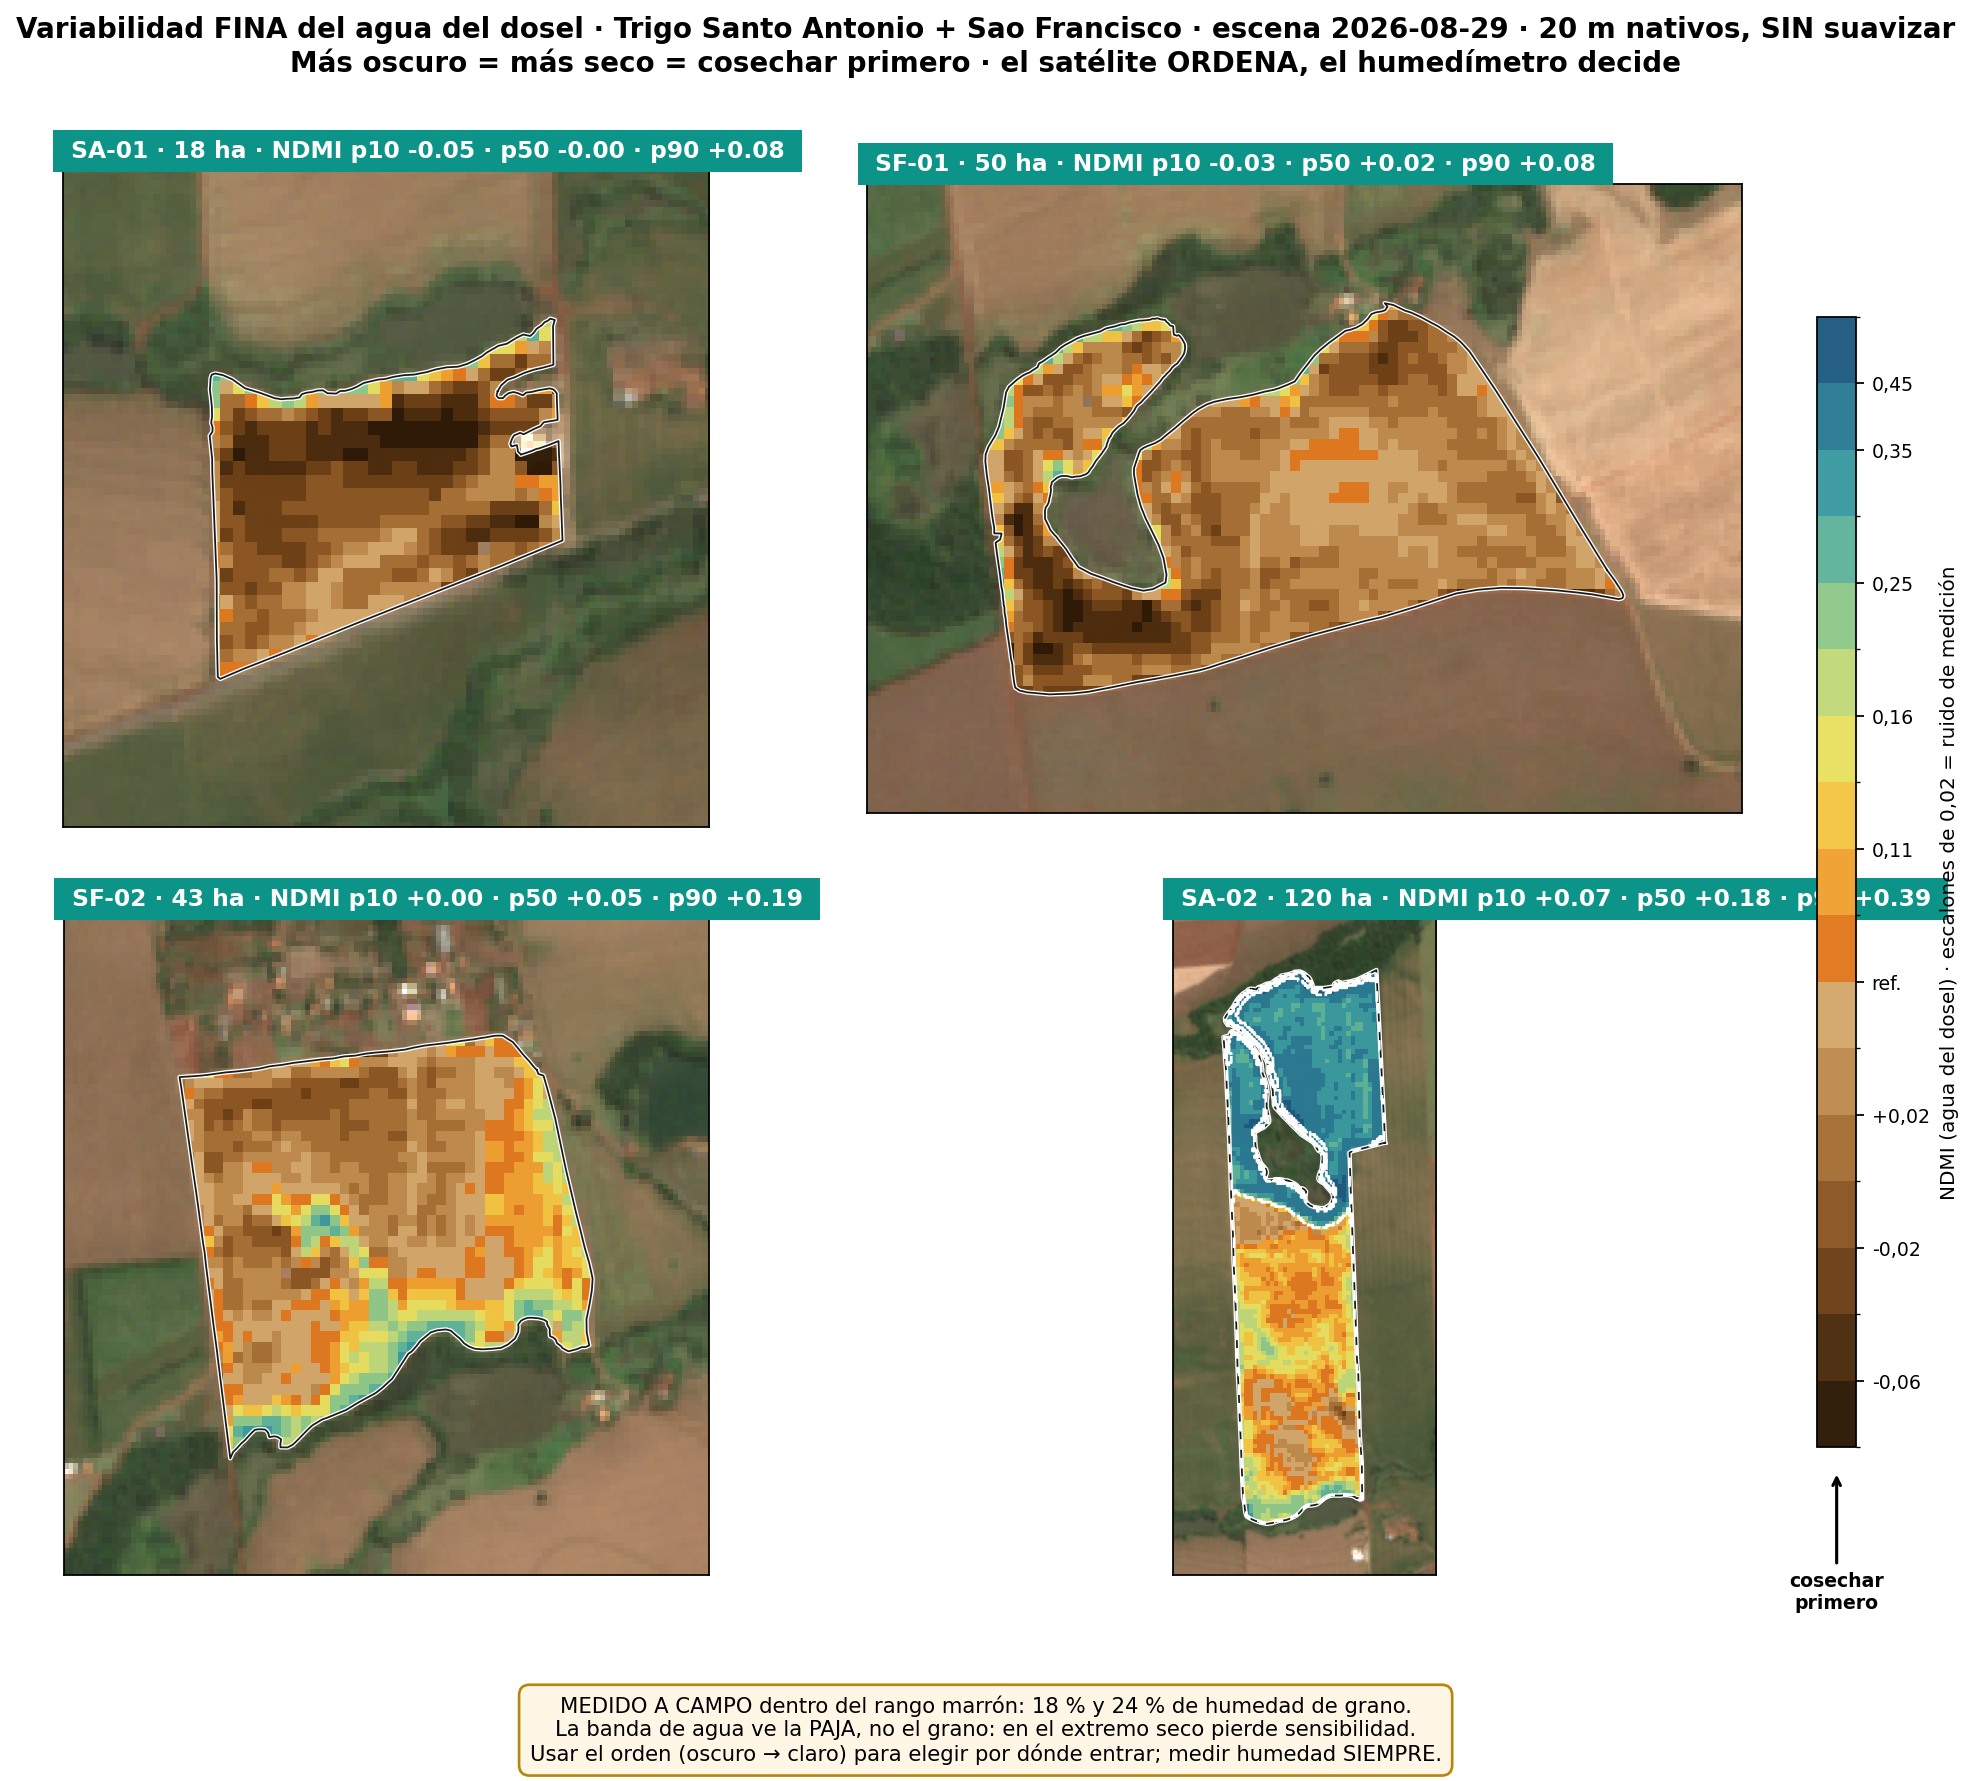
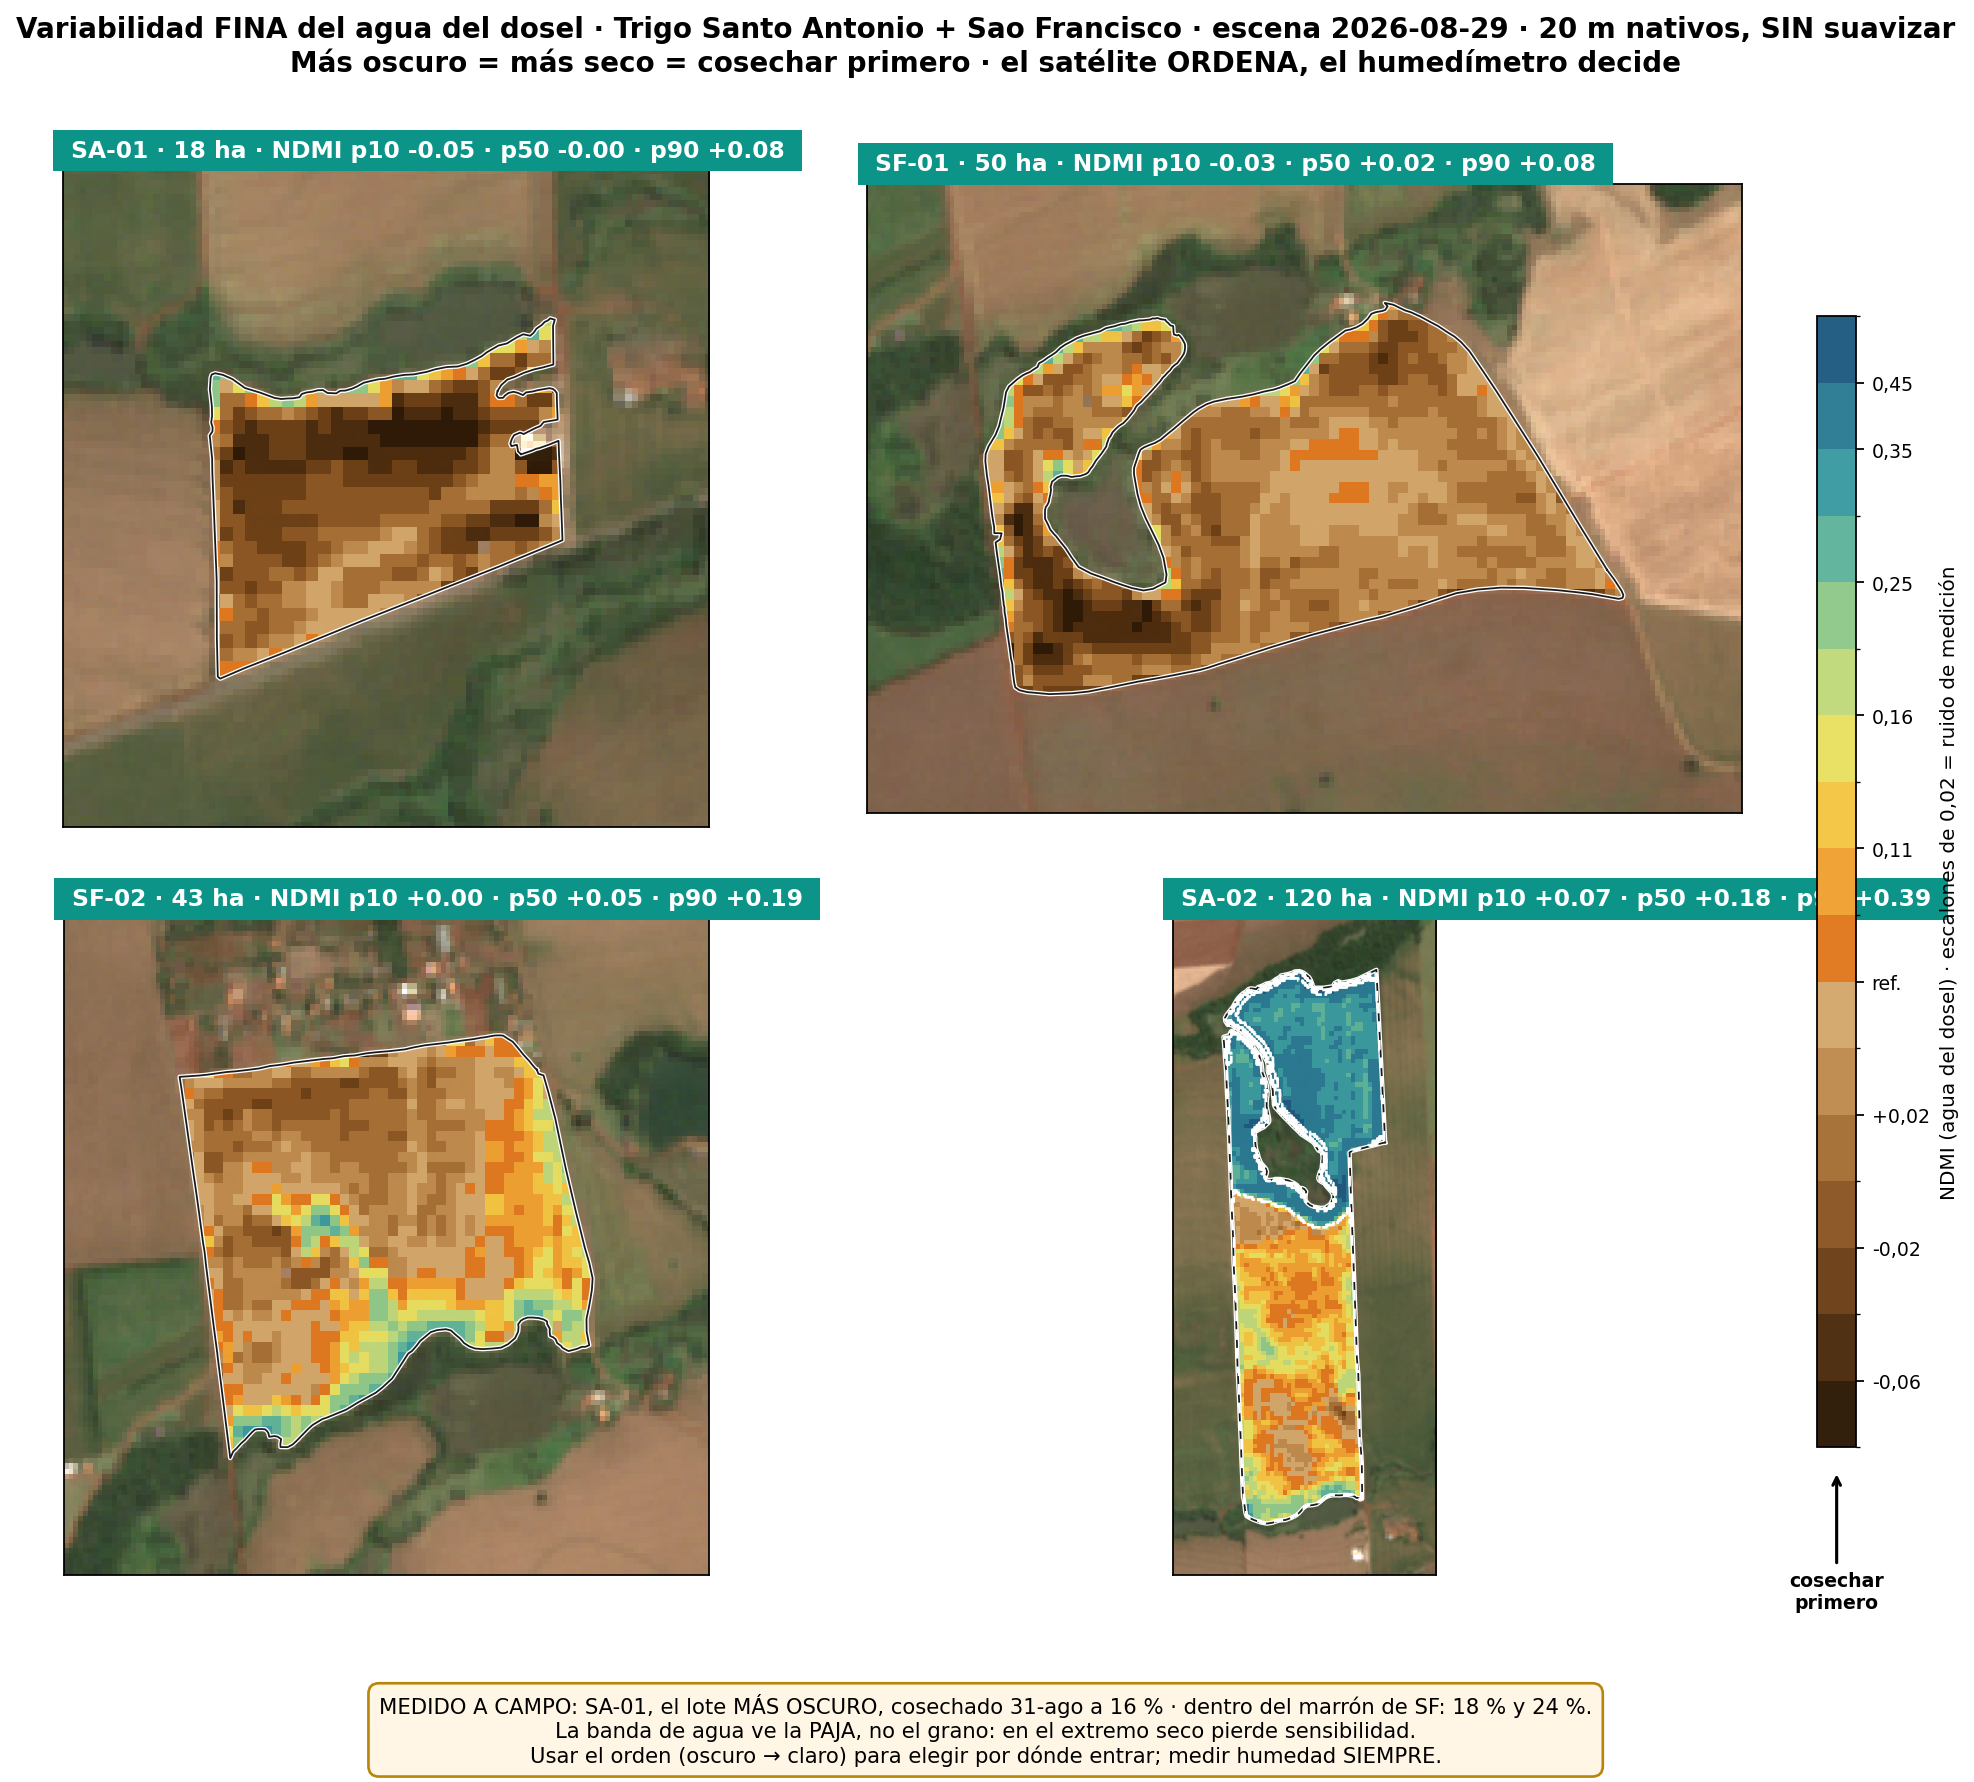
medicion(ancla-5): SA-01, el lote mas oscuro del mapa fino, se cosecho a 16%
El lote del asfalto (SA-01, NDMI p50 -0,01, el mas oscuro de la flota el
29-ago) se cosecho el 31-ago con 16% de humedad promedio: confirma el ORDEN
del mapa fino (mas oscuro = menos humedad; marrones claros de SF 0,00-0,04
dieron 18-24%; verde 0,16 dio 23%). Registrado en la caja del mapa fino
(es/pt), pies de figura del relatorio tecnico, resumo del productor (SA-01
'Colhido em 31/ago - deu 16%') y ancla_cosecha.txt. Cinco anclas: 16/18/20/
23/24%, PH 78. PDFs regenerados: tecnico 7 pag es/pt + resumo 2 pag.

diff --git a/PIX_ALERTA/entregables/resumo_simples.py b/PIX_ALERTA/entregables/resumo_simples.py
@@ -24,9 +24,9 @@ st += [B.P("Este é o resumo simples do relatório técnico. Aqui está só o qu
 
 st += [B.sec(1, "O que está pronto AGORA")]
 tab = [["Talhão", "Situação", "O que fazer"],
-       ["SA-01 (18 ha)", "Seco como a referência", "Medir umidade e colher"],
+       ["SA-01 (18 ha)", "Colhido em 31/ago — deu 16 %", "Feito"],
        ["SF-01 (50 ha)", "Seco como a referência", "Medir umidade e colher"],
-       ["SF-02 parte de cima (~25 ha)", "Seco como a referência", "Medir umidade e colher"],
+       ["SF-02 parte de cima (~25 ha)", "Seco como a referência", "Medir umidade ponto a ponto"],
        ["SF-02 parte de baixo (~15 ha)", "Ainda úmido (deu 23 %)", "Esperar 3 a 6 dias"],
        ["SA-02 Setor A (70 ha)", "Secando rápido", "Medir umidade até 04/set"],
        ["SA-02 Setor B (49 ha)", "Ainda verde", "Esperar 1-2 semanas"]]
@@ -35,11 +35,12 @@ st += [B.P("No total: uns 98 ha prontos para conferir e colher agora, e mais ~40
            "entrando nesta semana.", "Body")]
 
 st += [B.sec(2, "O que já foi conferido no campo")]
-st += [B.P("A parte seca colhida em São Francisco deu 18 % de umidade — exatamente o "
-           "ponto de começar a trilha — e PH 78 (qualidade boa). A parte mais verde deu "
-           "23 % — ainda cedo. Ou seja: onde o mapa mostrou marrom, o grão estava no "
-           "ponto; onde mostrou verde, ainda não. O satélite e o medidor de umidade "
-           "contaram a mesma história.", "Body")]
+st += [B.P("SA-01, o talhão mais escuro do mapa (o do asfalto), foi colhido em 31/ago com "
+           "16 % de umidade — o mais seco de todos, como o mapa dizia. Em São Francisco, a "
+           "parte seca deu 18 % e PH 78 (qualidade boa), mas outros pontos marrons deram até "
+           "24 %, e a parte verde 23 %. Lição: a ORDEM do mapa está certa (mais escuro = "
+           "mais seco), mas dentro do marrom o grão ainda varia — o satélite vê a palha, "
+           "não o grão. Por isso: medir umidade ponto a ponto antes de entrar.", "Body")]
 
 st += [B.sec(3, "As 3 regras simples")]
 st += [B.P("1. O satélite diz POR ONDE começar. O medidor de umidade diz QUANDO colher. "
@@ -49,17 +50,20 @@ st += [B.P("2. Chuva molha a palha e atrasa tudo alguns dias. Depois de chuva, e
 st += [B.P("3. A cada 3-5 dias sai um mapa novo. As datas podem se ajustar um pouco — "
            "é normal, o trigo seca conforme o tempo que faz.", "Body")]
 
-st += [B.callout("Esta semana", "Começar pela parte marrom do mapa (SA-01, SF-01 e a parte "
-                 "de cima do SF-02). Medir umidade no Setor A de Santo Antônio até 04/set. "
+st += [B.callout("Esta semana", "SA-01 já foi. Seguir pelos pontos mais ESCUROS de SF-01 e da "
+                 "parte de cima do SF-02, medindo umidade em cada frente. Medir o Setor A de "
+                 "Santo Antônio até 04/set. "
                  "Deixar o Setor B quieto por enquanto. Dúvidas: nilton.camargo@pixadvisor.network "
                  "· +591 721 49171.")]
-st += [B.sec(4, "O mapa: cada cor é uma decisão")]
+st += [B.sec(4, "O mapa: mais escuro = mais seco = entrar primeiro")]
 st += [KeepTogether([
-    B.P("Marrom = pronto para medir e colher · Laranja = questão de dias · Amarelo = "
-        "perto, ainda úmido · Verde = falta 1-2 semanas · Azul = longe ainda. A barra "
-        "embaixo de cada talhão mostra quantos hectares tem de cada cor.", "Body"),
-    Image(os.path.join(RAIZ, "medicion", "zonas_proximidad_SA_SF_pt.png"),
-          width=15 * cm, height=15 * cm * 1710 / 2081)])]
+    B.P("Cada quadradinho é um pedaço de 20 m do talhão, sem disfarce. Marrom escuro = a palha "
+        "mais seca — por ali entrar primeiro. Marrom claro e laranja = ainda não. Verde e azul = "
+        "esperar. ATENÇÃO: dentro do marrom o grão ainda variou de 18 % a 24 % — o satélite vê a "
+        "palha, não o grão. Medir umidade em cada ponto antes de colher: cada ponto a mais é "
+        "desconto na cooperativa.", "Body"),
+    Image(os.path.join(RAIZ, "medicion", "variabilidad_fina_SA_SF_pt.png"),
+          width=15 * cm, height=15 * cm * 1781 / 2039)])]
 
 out = os.path.join(RAIZ, "salida", "Resumo_Simples_Produtor_SA_SF_29ago.pdf")
 B.build(out, st, cover_title="Trigo — o que colher e quando",

diff --git a/PIX_ALERTA/entregables/orden_cosecha.py b/PIX_ALERTA/entregables/orden_cosecha.py
@@ -372,6 +372,7 @@ TXT = {
                   "lote, los sectores marrones se secan primero: por ahí empezar el muestreo de "
                   "humedad de grano.",
     mapa_zonas_cap="Proximidad en 5 zonas con hectareas por clase: el nivel trillable es el p90 de la referencia seca de esta corrida (medido a campo 29-ago: ~18 % de humedad al alcanzarlo = inicio de ventana de trilla, PH 78; la zona cerca midio 23 %). Los dias asumen la tasa de secado medida y sin lluvia. La barra de cada lote dice cuantas hectareas entran esta semana y cuantas despues.",
+    mapa_fino_cap="Variabilidad FINA del agua del dosel a 20 m nativos, sin suavizar: escalones de 0,02 (= ruido de medicion), 7 tonos dentro del rango seco. Mas oscuro = mas seco = entrar primero. Medido a campo: SA-01, el lote mas oscuro, cosechado 31-ago a 16 % de humedad; dentro del marron de SF: 18 % y 24 % — la banda de agua ve la paja,no el grano, y en el extremo seco pierde sensibilidad. El mapa ORDENA; el humedimetro certifica.",
     sec4="Método y alcance",
     metodo="Madurez por caída del CIre respecto del pico propio (pico solo con escenas S2A/B; "
            "S2C corregido por nivel). Compuerta de bruma por lote y fecha. Producto RELATIVO: "
@@ -472,6 +473,7 @@ TXT = {
                   "de cada talhão, os setores marrons secam primeiro: por aí começar a amostragem "
                   "de umidade do grão.",
     mapa_zonas_cap="Proximidade em 5 zonas com hectares por classe: o nivel trilhavel e o p90 da referencia seca desta rodada (medido no campo 29-ago: ~18 % de umidade ao atingi-lo = inicio da janela de trilha, PH 78; a zona perto mediu 23 %). Os dias assumem a taxa de secagem medida e sem chuva. A barra de cada talhao diz quantos hectares entram nesta semana e quantos depois.",
+    mapa_fino_cap="Variabilidade FINA da agua do dossel a 20 m nativos, sem suavizar: degraus de 0,02 (= ruido de medicao), 7 tons dentro da faixa seca. Mais escuro = mais seco = entrar primeiro. Medido no campo: SA-01, o talhao mais escuro, colhido 31/ago com 16 % de umidade; dentro do marrom de SF: 18 % e 24 % — a banda de agua ve a palha,nao o grao, e no extremo seco perde sensibilidade. O mapa ORDENA; o medidor de umidade certifica.",
     sec4="Método e alcance",
     metodo="Maturação pela queda do CIre em relação ao pico próprio (pico somente com cenas "
            "S2A/B; S2C corrigido por nível). Comporta de bruma/névoa seca por talhão e data. "
@@ -914,6 +916,16 @@ def render_graficos(res, rasters, idioma):
             for k in ('ndmi', 'rgb'):
                 z_arrays[f'{lid}|{k}'], z_arrays[f'{lid}|{k}_ext'] = d[k]
         _zonas_render(res, z_arrays, pngs['zonas'], idioma)
+        # mapa de VARIABILIDAD FINA (20 m nativos, sin suavizar): solo si la corrida
+        # dejo los rasteres ndmi20m_* en salida (correccion de campo 02-sep: el marron
+        # unico escondia 18-24 % de humedad de grano)
+        try:
+            from zonas_proximidad import render_fino as _fino, cargar_ndmi20 as _c20
+            nd20 = _c20(res, SALIDA)
+            pngs['fino'] = f"{MED}/variabilidad_fina_{hkey}{suf}.png"
+            _fino(res, nd20, z_arrays, pngs['fino'], idioma)
+        except FileNotFoundError:
+            print('sin rasteres ndmi20m_* en salida: mapa fino omitido')
     return pngs
 
 
@@ -1092,6 +1104,9 @@ def render_pdf(res, idioma, pngs=None):
     if pngs.get('zonas'):
         st += [KeepTogether([_img_ajustada(pngs['zonas'], max_h=17.5 * cm),
                              figcap(T['mapa_zonas_cap'])])]
+    if pngs.get('fino'):
+        st += [KeepTogether([_img_ajustada(pngs['fino'], max_h=17.5 * cm),
+                             figcap(T['mapa_fino_cap'])])]
 
     # ---- seccion final: metodo + proximo paso (fluye: sin pagina semivacia) ----
     st += [KeepTogether([B.sec(sec_m + 1, T['sec4']),

diff --git a/PIX_ALERTA/entregables/zonas_proximidad.py b/PIX_ALERTA/entregables/zonas_proximidad.py
@@ -173,7 +173,7 @@ TXT_F = {
            'Más oscuro = más seco = cosechar primero · el satélite ORDENA, el humedímetro decide',
     chip=' %s · %.0f ha · NDMI p10 %+.2f · p50 %+.2f · p90 %+.2f ',
     cbar='NDMI (agua del dosel) · escalones de 0,02 = ruido de medición',
-    caja=('MEDIDO A CAMPO dentro del rango marrón: 18 % y 24 % de humedad de grano.\n'
+    caja=('MEDIDO A CAMPO: SA-01, el lote MÁS OSCURO, cosechado 31-ago a 16 % · dentro del marrón de SF: 18 % y 24 %.\n'
           'La banda de agua ve la PAJA, no el grano: en el extremo seco pierde sensibilidad.\n'
           'Usar el orden (oscuro → claro) para elegir por dónde entrar; medir humedad SIEMPRE.'),
     flecha='cosechar\nprimero'),
@@ -182,7 +182,7 @@ TXT_F = {
            'Mais escuro = mais seco = colher primeiro · o satélite ORDENA, o medidor de umidade decide',
     chip=' %s · %.0f ha · NDMI p10 %+.2f · p50 %+.2f · p90 %+.2f ',
     cbar='NDMI (água do dossel) · degraus de 0,02 = ruído de medição',
-    caja=('MEDIDO NO CAMPO dentro da faixa marrom: 18 % e 24 % de umidade do grão.\n'
+    caja=('MEDIDO NO CAMPO: SA-01, o talhão MAIS ESCURO, colhido 31/ago com 16 % · dentro do marrom de SF: 18 % e 24 %.\n'
           'A banda de água vê a PALHA, não o grão: no extremo seco perde sensibilidade.\n'
           'Usar a ordem (escuro → claro) para escolher por onde entrar; medir umidade SEMPRE.'),
     flecha='colher\nprimeiro'),
